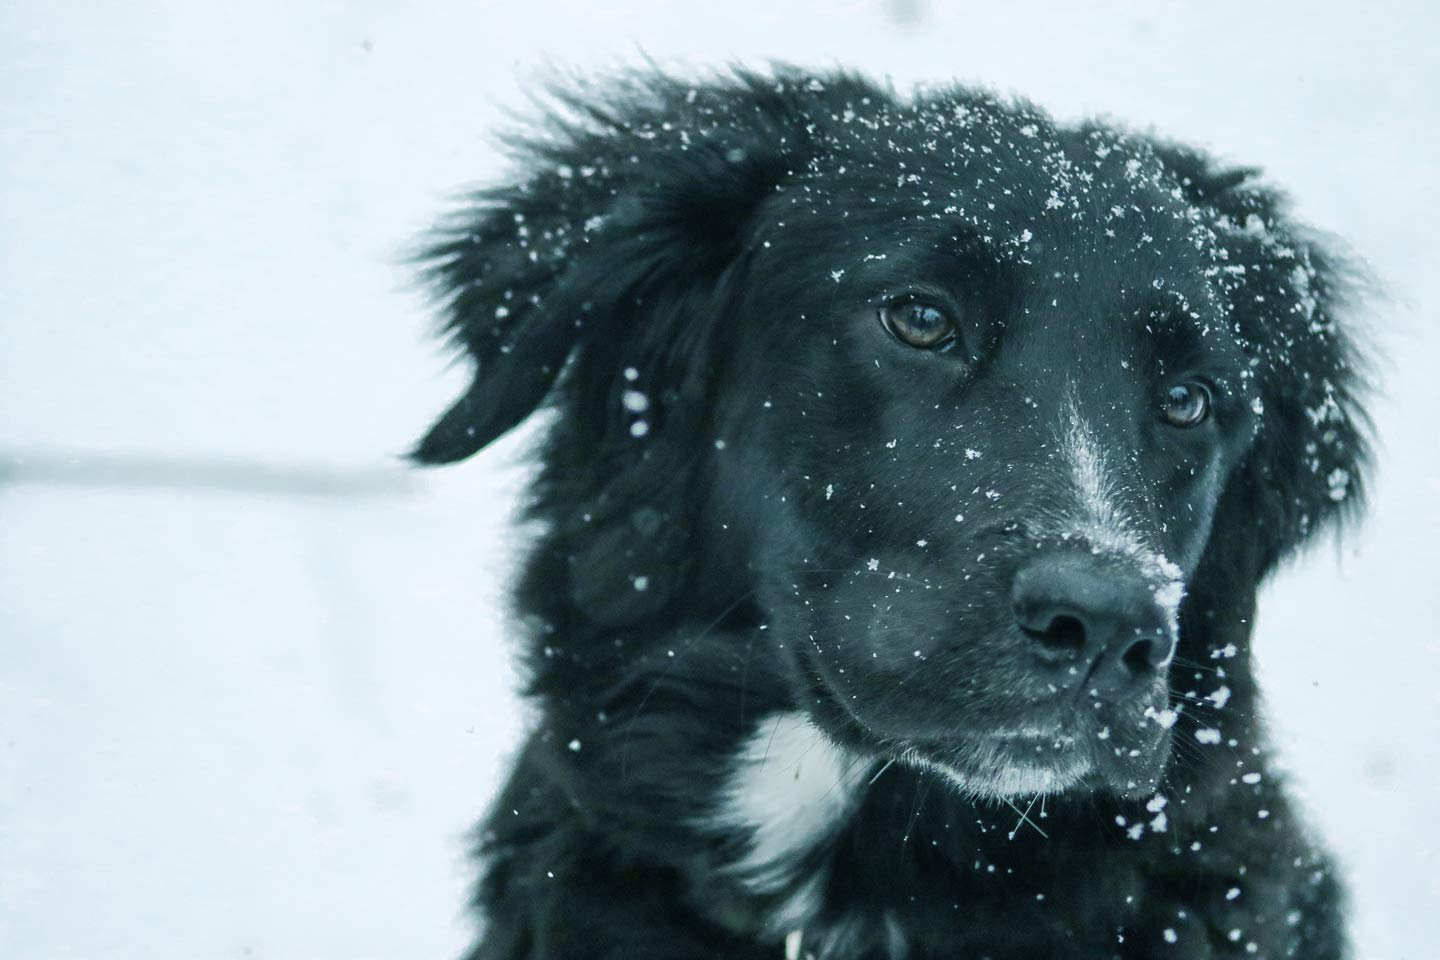
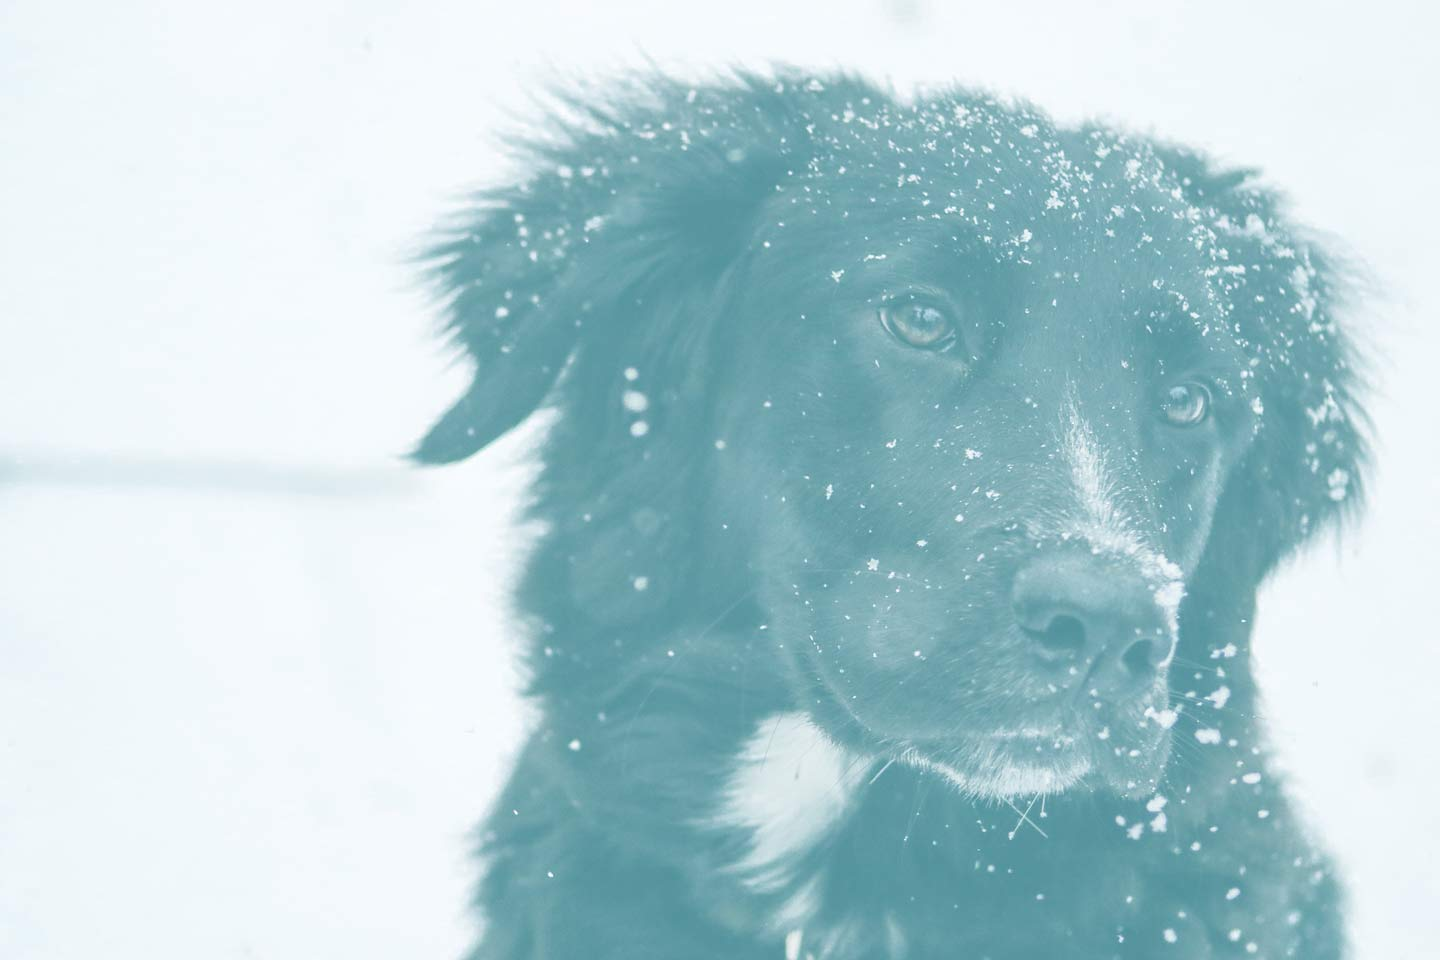
added background image on about section with flexible padding

diff --git a/pages/home.html b/pages/home.html
@@ -17,7 +17,7 @@
 </head>
 <body>
 
-  <header class="push-2">
+  <header>
 
     <nav>
       <div class="grid center-contents-vertical">
@@ -45,18 +45,20 @@
 
   <main>
 
-    <section class="about pad-t-2 pad-b-2 push-2 gutter-2">
-      <div class="grid grid-stretch">
-        <div class="unit xs-1 s-1 m-1-2 l-1-2">
-          <h3 class="zetta push-1-4">about loyal rescue</h3>
-          <p class="max-length">Loyal believes that we have a duty to ensure that our dogs are placed in the homes best suited for them, with applicants that believe in the philosophy of rescue and have the patience to work through the screening process. The application provides some of the detail needed to make this determination. Certainly it is easier to walk into the store and buy a puppy because of the "instant gratification", but adopting a dog is a lifetime commitment, not something to take lightly. We go through this process to make sure that the fit is right, the dog is ready and you are the best home for them.</p>
-        </div>
-        <div class="unit xs-1 s-1 m-1-2 l-1-2 center-contents">
-          <img class="img-flex about-img pad-t-2" src="../images/about-pup.jpg" alt="">
+    <section class="about pad-t-2 pad-b-2 gutter">
+
+      <div class="bg-container">
+        <div class="max-length">
+          <h3 class="zetta text-center push-1-4">about loyal rescue</h3>
+          <p class="max-length">Loyal believes that we have a duty to ensure that our dogs are placed in the homes best suited for them, with applicants that believe in the philosophy of rescue and have the patience to work through the screening process. The application provides some of the detail needed to make this determination. Certainly it is easier to walk into the store and buy a puppy because of the "instant gratification", but adopting a dog is a lifetime commitment, not something to take lightly. We go through this process to make sure that the fit is right, the dog is ready and you are the best home for them.
+          </p>
         </div>
       </div>
+
     </section>
-    <section class="faq center-contents gutter-2 pad-t-2 push-2 pad-b-2">
+
+    <section class="faq center-contents gutter pad-t-2 push-2 pad-b-2">
+
       <h3 class="tera pad-t">how the application works</h3>
       <div class="steps max-length">
         <h4 class="text-center">STEP ONE</h4>
@@ -67,6 +69,7 @@
         <p>Depending on your location, the home visit may occur within days of the interview, or weeks later. If there are no Loyal volunteers locally, we will request assistance from other rescue groups affiliated with us. Rescue work is largely volunteer based and many people have family obligations beyond rescue which might limit their immediate availability to conduct the visit.</p>
       </div>
       <a class="btn btn-ghost btn-ghost-faq mega push" href="#"><span>apply for adoption</span></a>
+
     </section>
 
   </main>

diff --git a/index.html b/index.html
@@ -1239,16 +1239,13 @@
                   <svg><use xlink:href="#icon-copy"></use></svg>
                 </i>
               </button>
-              <code><pre id="sections-about-code-sample-copy-chunk">&lt;section class="about gutter-2"&gt;
+              <code><pre id="sections-about-code-sample-copy-chunk">&lt;section class="about pad-t-2 pad-b-2 gutter-2"&gt;
 
-  &lt;div class="grid grid-stretch">
-    &lt;div class="unit xs-1 s-1 m-1-2 l-1-2">
-      &lt;h3 class="zetta push-1-4">about Loyal Rescue&lt;/h3>
+  &lt;div class="bg-container">
+    &lt;div class="wrapper">
+      &lt;h3 class="zetta text-center push-1-4">about loyal rescue&lt;/h3>
       &lt;p class="max-length">Loyal believes that we have a duty to ensure that our dogs are placed in the homes best suited for them, with applicants that believe in the philosophy of rescue and have the patience to work through the screening process. The application provides some of the detail needed to make this determination. Certainly it is easier to walk into the store and buy a puppy because of the &quot;instant gratification&quot;, but adopting a dog is a lifetime commitment, not something to take lightly. We go through this process to make sure that the fit is right, the dog is ready and you are the best home for them.
       &lt;/p>
-    &lt;/div>
-    &lt;div class="unit xs-1 s-1 m-1-2 l-1-2 center-contents">
-      &lt;img class="img-flex about-img pad-t-2" src="https://www.placehold.it/300x300" alt="">
     &lt;/div>
   &lt;/div>
 
@@ -1309,7 +1306,7 @@
                   <svg><use xlink:href="#icon-copy"></use></svg>
                 </i>
               </button>
-              <code><pre id="sections-faq-code-sample-copy-chunk">&lt;section class="faq center-contents gutter-2"&gt;
+              <code><pre id="sections-faq-code-sample-copy-chunk">&lt;section class="faq center-contents gutter pad-t-2 push-2 pad-b-2"&gt;
   &lt;h3 class="zetta pad-t">how the application works&lt;/h3>
   &lt;div class="steps max-length">
     &lt;h4 class="text-center">STEP ONE&lt;/h4>

diff --git a/patterns/sections/about.html b/patterns/sections/about.html
@@ -13,16 +13,13 @@
 </head>
 <body>
 
-  <section class="about gutter-2">
+  <section class="about pad-t-2 pad-b-2 gutter-2">
 
-    <div class="grid grid-stretch">
-      <div class="unit xs-1 s-1 m-1-2 l-1-2">
-        <h3 class="zetta push-1-4">about Loyal Rescue</h3>
+    <div class="bg-container">
+      <div class="wrapper">
+        <h3 class="zetta text-center push-1-4">about loyal rescue</h3>
         <p class="max-length">Loyal believes that we have a duty to ensure that our dogs are placed in the homes best suited for them, with applicants that believe in the philosophy of rescue and have the patience to work through the screening process. The application provides some of the detail needed to make this determination. Certainly it is easier to walk into the store and buy a puppy because of the "instant gratification", but adopting a dog is a lifetime commitment, not something to take lightly. We go through this process to make sure that the fit is right, the dog is ready and you are the best home for them.
         </p>
-      </div>
-      <div class="unit xs-1 s-1 m-1-2 l-1-2 center-contents">
-        <img class="img-flex about-img pad-t-2" src="https://www.placehold.it/300x300" alt="">
       </div>
     </div>
 

diff --git a/patterns/sections/css/sections.css b/patterns/sections/css/sections.css
@@ -1,19 +1,18 @@
 .about {
-  background-color: var(--color-white);
+  background-image: url("../../../images/snow-dog.jpg");
+  background-size: cover;
+  background-position: top center;
+
+  padding-bottom: 3em;
+  padding-top: 3em;
+}
+
+.about h3 {
+  color: var(--color-secondary);
 }
 
 .white-header {
   color: var(--color-white);
-}
-
-.img-flex {
-  display: block;
-  width: 100%;
-}
-
-.about-img {
-  max-width: 400px;
-  margin: auto;
 }
 
 .faq {
@@ -42,4 +41,20 @@
   color: var(--color-light);
   border-color: var(--color-white);
   background-color: var(--color-white);
+}
+
+.max-length {
+  margin-left: auto;
+  margin-right: auto;
+  max-width: 39em;
+  width: 100%;
+}
+
+@media only screen and (min-width: 60em) {
+
+  .about {
+    padding-bottom: 10em;
+    padding-top: 10em;
+  }
+
 }

diff --git a/patterns/sections/faq.html b/patterns/sections/faq.html
@@ -13,7 +13,7 @@
 </head>
 <body>
 
-  <section class="faq center-contents gutter-2">
+  <section class="faq center-contents gutter pad-t-2 push-2 pad-b-2">
     <h3 class="zetta pad-t">how the application works</h3>
     <div class="steps max-length">
       <h4 class="text-center">STEP ONE</h4>
